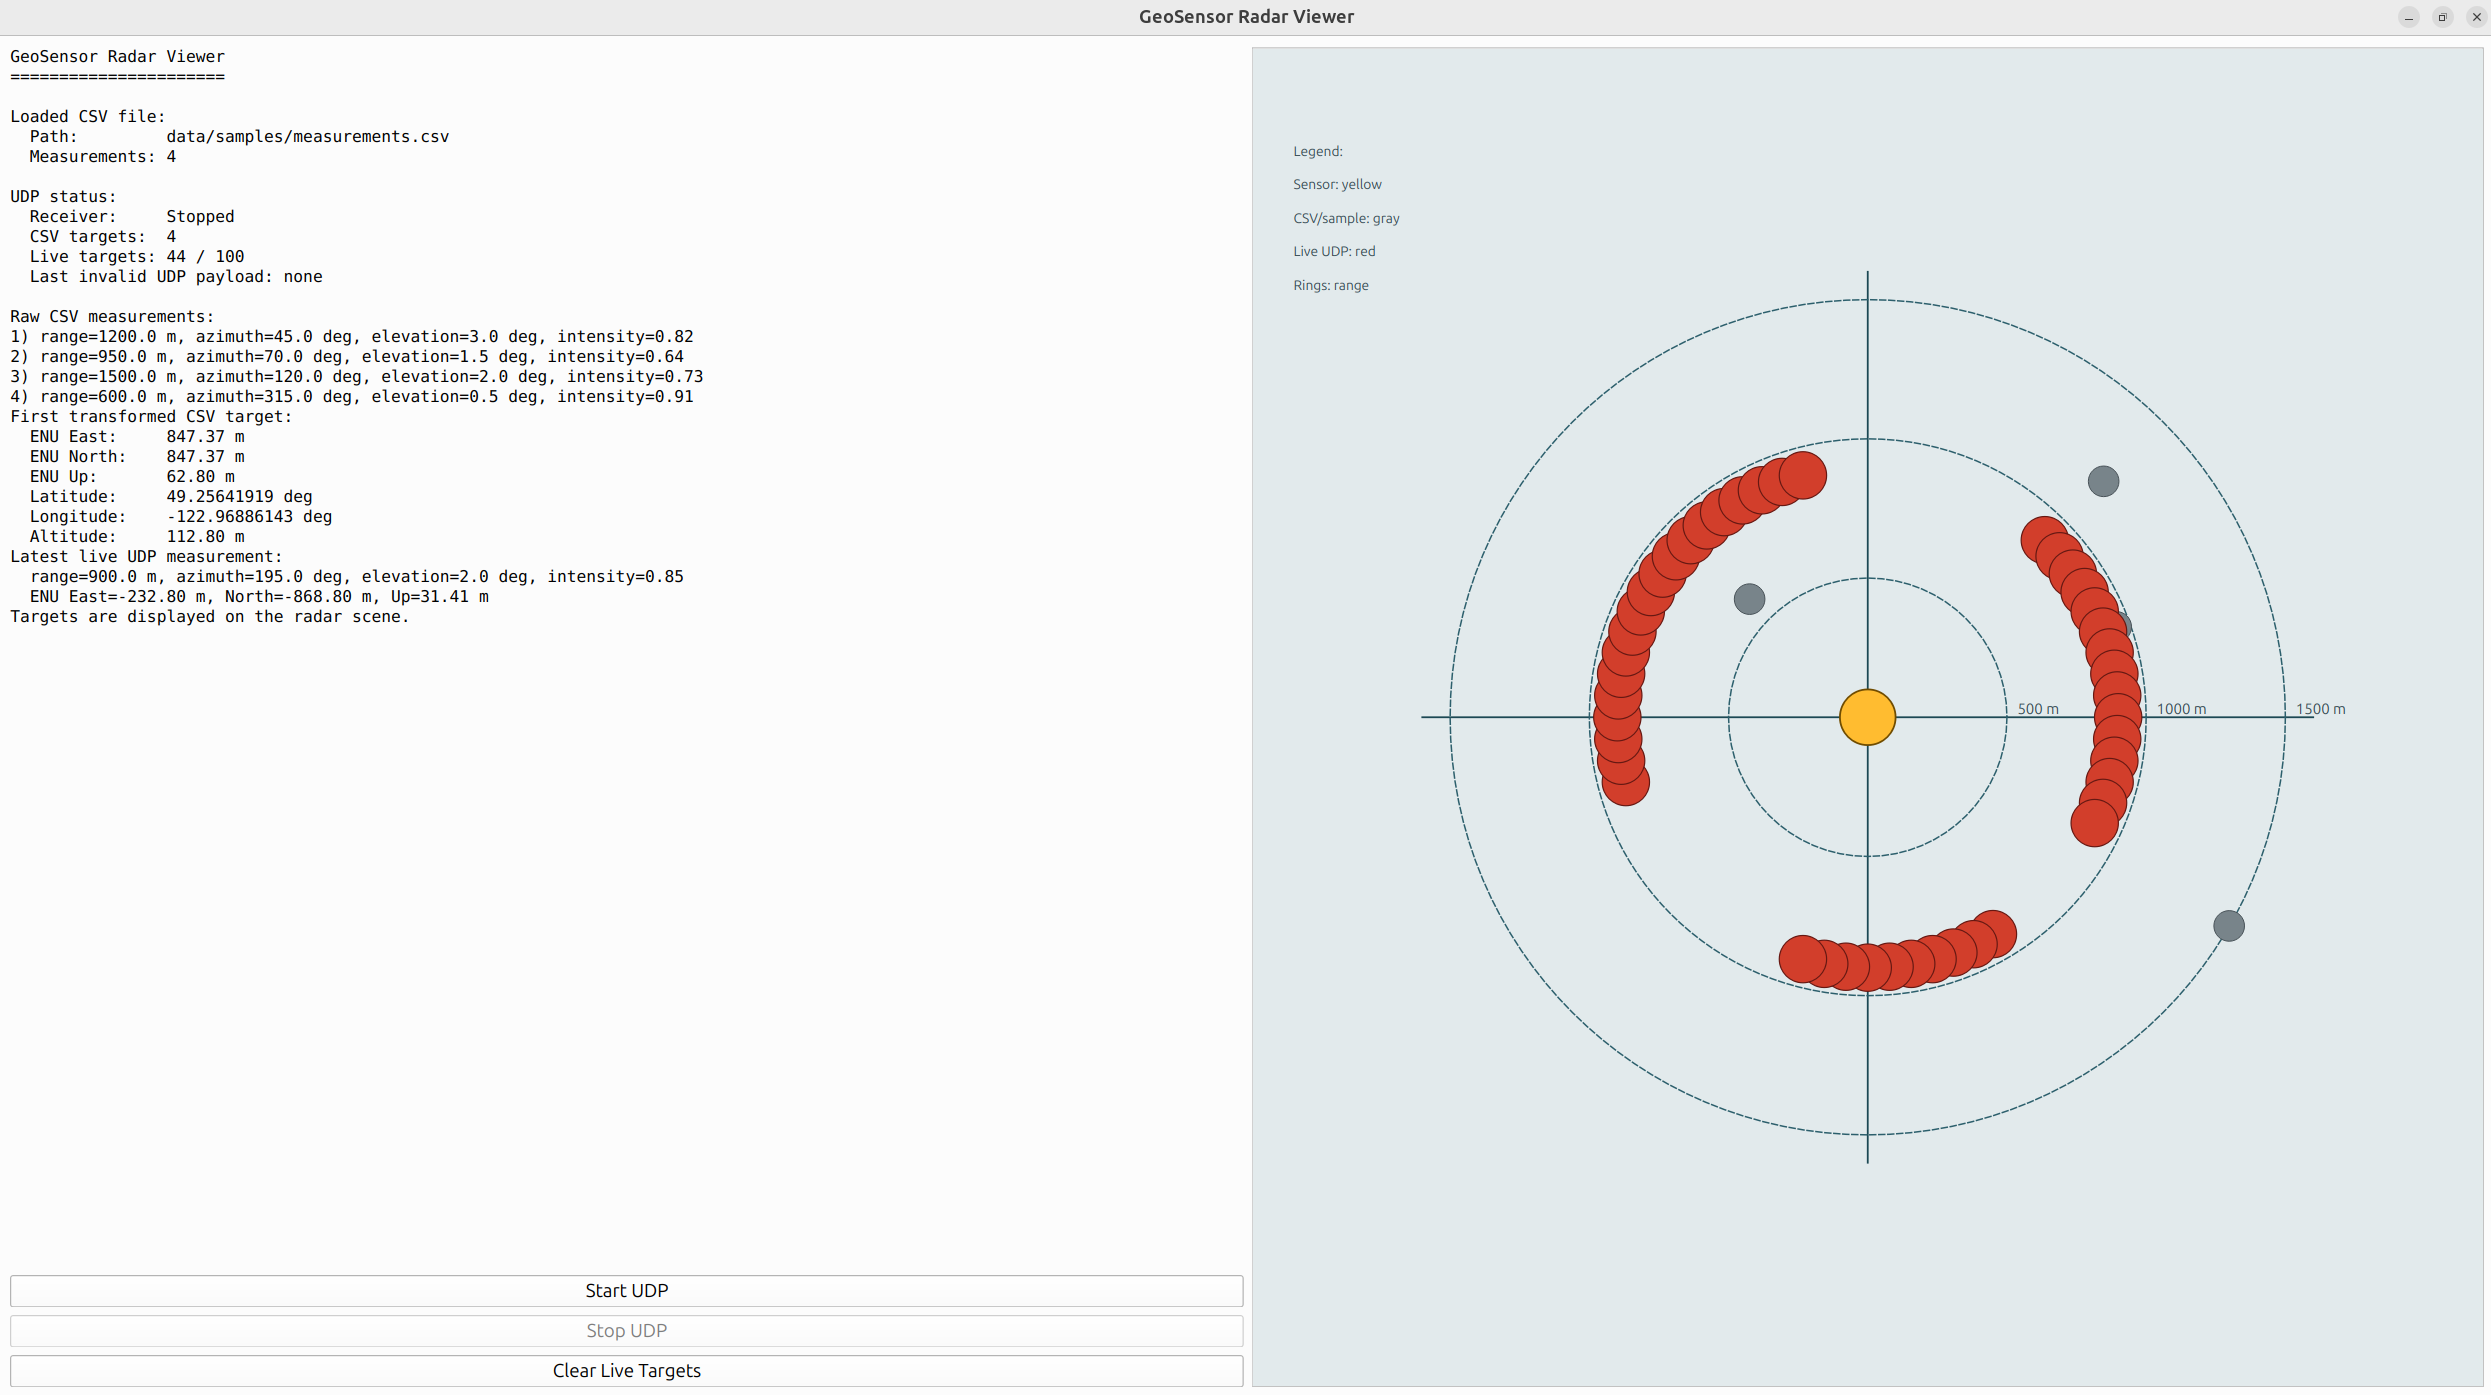
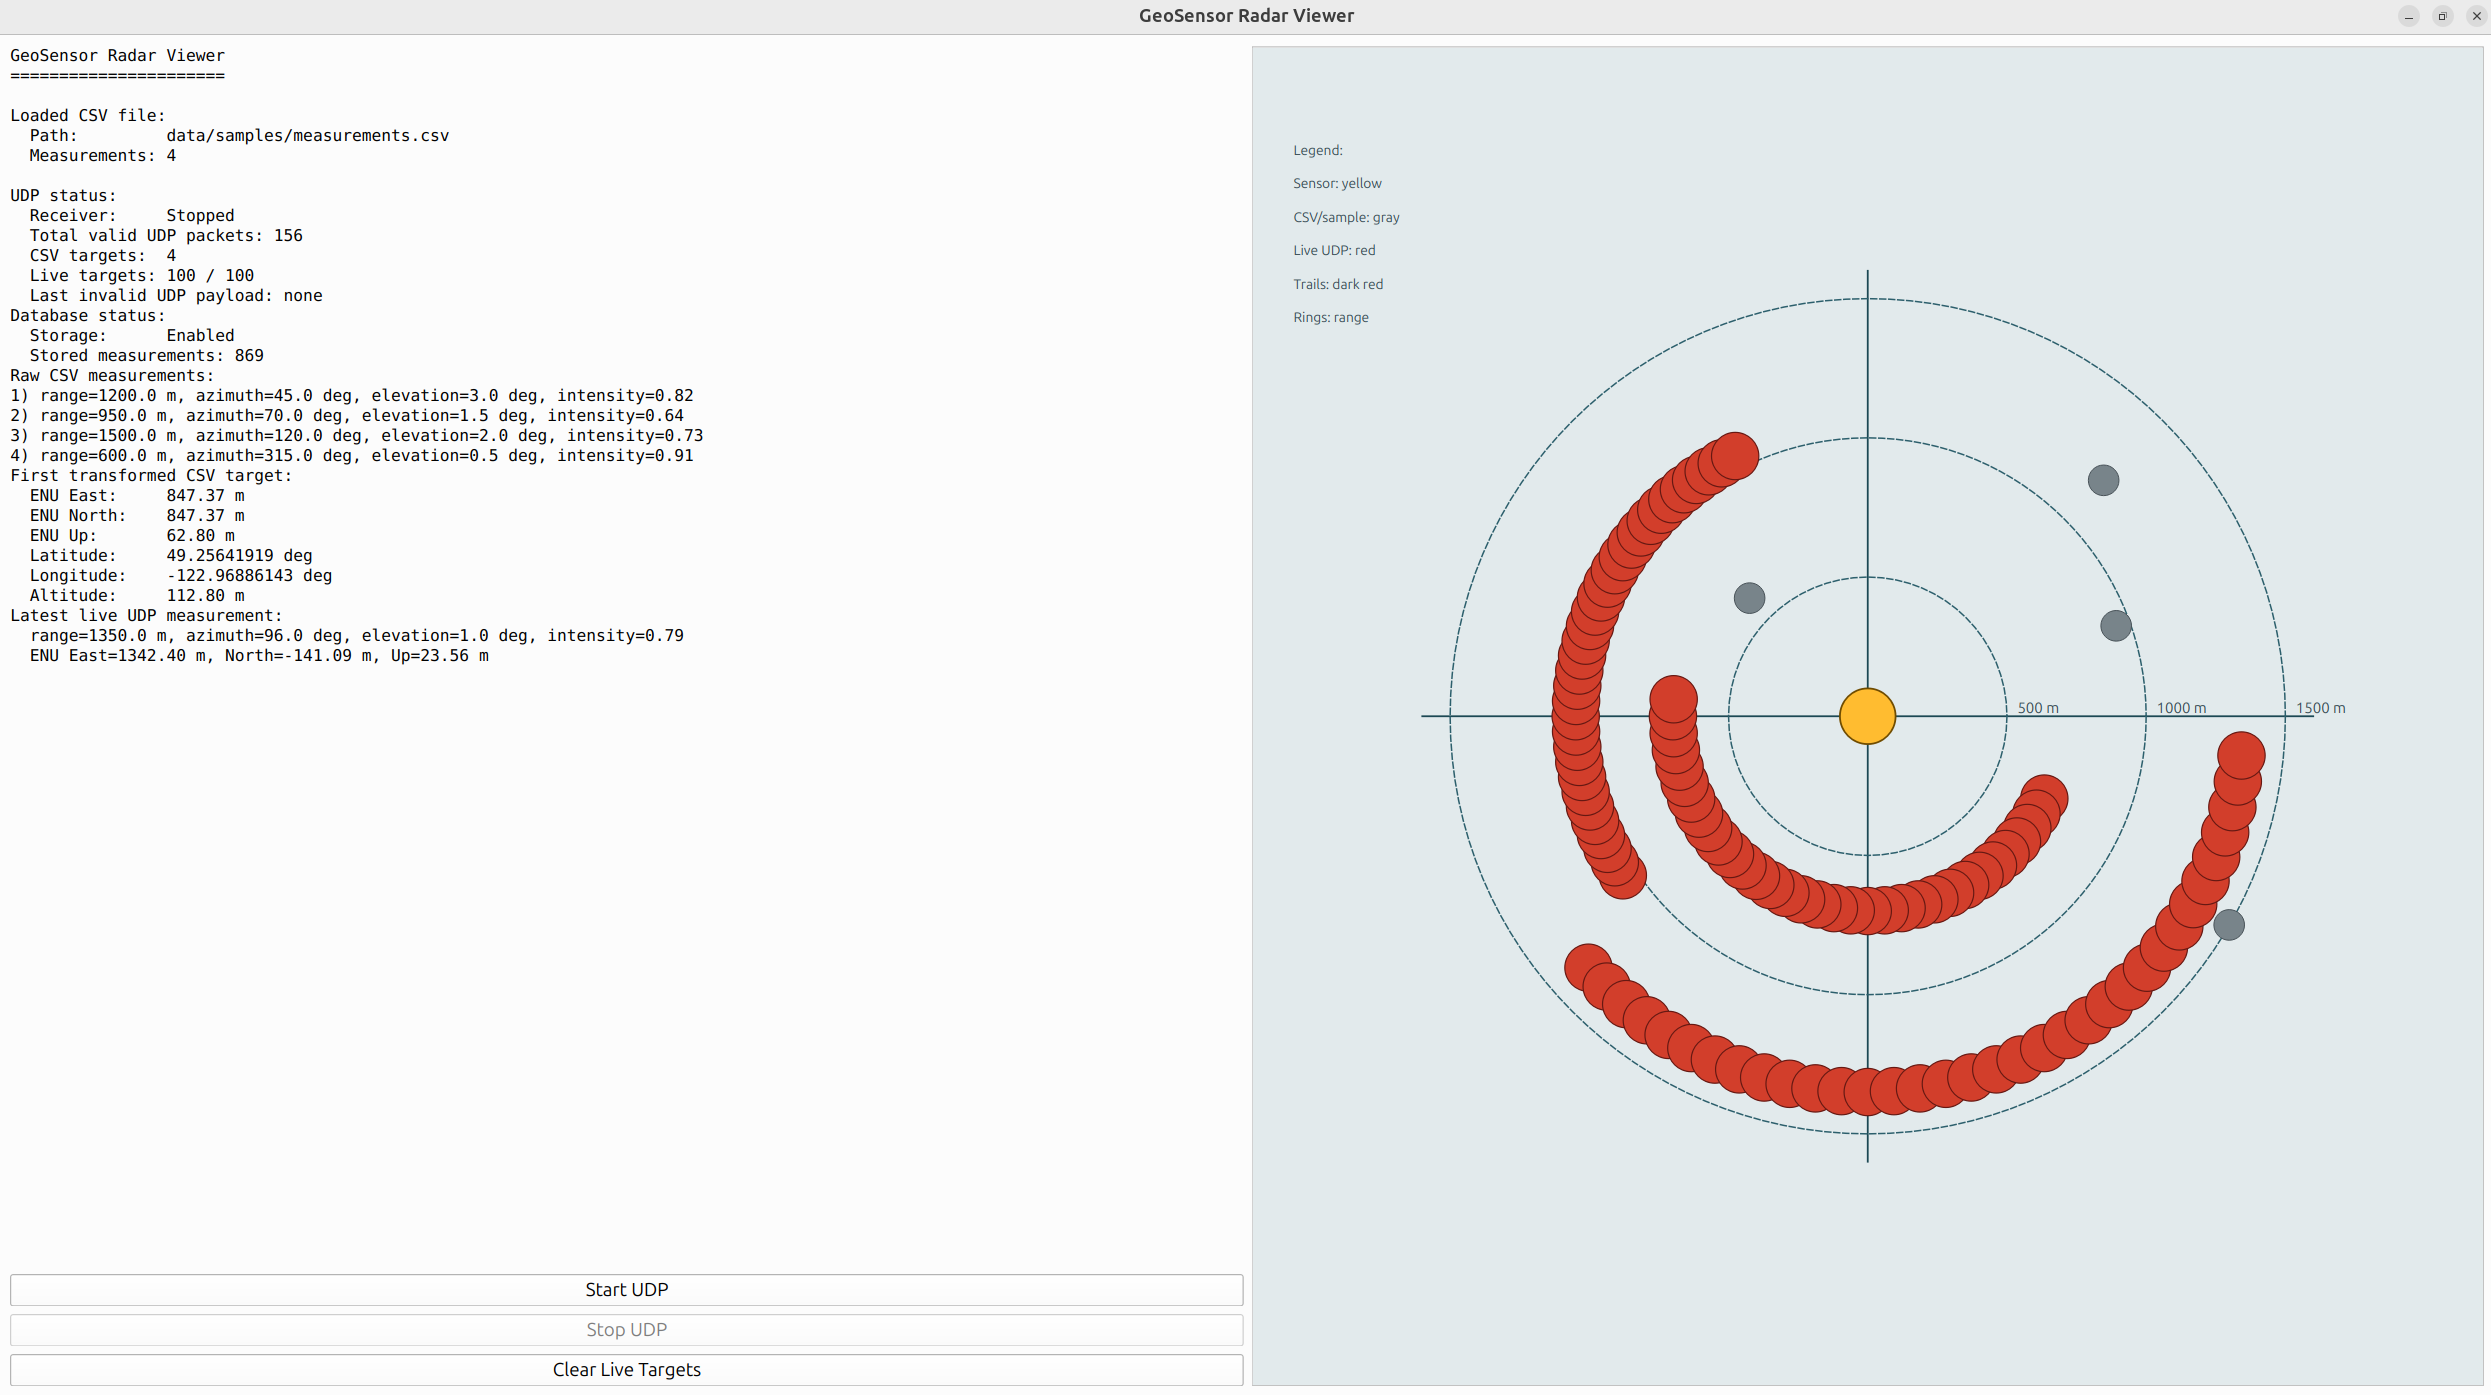
Update README target trails documentation

diff --git a/README.md b/README.md
@@ -14,6 +14,7 @@ GeoSensor Radar Viewer is a C++20 and Qt6 desktop application for visualizing ge
 - CSV loading for radar-style sensor measurements
 - Live UDP measurement receiver on `127.0.0.1:5005`
 - Python UDP simulator with static, moving, and multi-target modes
+- UDP payloads can include `target_id` for track-aware visualization
 - Live UDP controls for start, stop, and clear
 - Range / azimuth / elevation to local ENU coordinate transformation
 - Approximate ENU to WGS84 latitude / longitude conversion
@@ -22,6 +23,7 @@ GeoSensor Radar Viewer is a C++20 and Qt6 desktop application for visualizing ge
   - range rings
   - range labels
   - separate CSV/sample and live UDP target styles
+  - short per-target trails for UDP packets that include `target_id`
   - live UDP target buffer limited to the latest 100 positions
   - total valid UDP packet counter
   - legend
@@ -85,7 +87,7 @@ Run the multi-target UDP simulator in Terminal 2:
 ./scripts/simulator/udp_sensor_simulator.py --mode multi --interval 0.2 --azimuth-step 5
 ```
 
-In the radar view, CSV/sample targets remain visible and are styled separately from live UDP targets. `Start UDP` starts or resumes receiving live packets, `Stop UDP` pauses live receiving, and `Clear Live Targets` removes only the live UDP targets while keeping the CSV/sample targets on screen. Live targets are limited to the latest 100 positions, and the `Total valid UDP packets` status line continues increasing even after the live target buffer reaches 100. In moving mode, azimuth changes gradually so the red live target moves around the radar. Multi mode sends several moving detections per update cycle and now includes `target_id` values in the UDP payload, although the viewer does not use target IDs yet.
+In the radar view, CSV/sample targets remain visible and are styled separately from live UDP targets. `Start UDP` starts or resumes receiving live packets, `Stop UDP` pauses live receiving, and `Clear Live Targets` removes only the live UDP targets while keeping the CSV/sample targets on screen. Live targets are limited to the latest 100 positions, and the `Total valid UDP packets` status line continues increasing even after the live target buffer reaches 100. In moving mode, azimuth changes gradually so the red live target moves around the radar. When UDP packets include `target_id`, the viewer groups detections into short per-target trails. Legacy 4-field UDP packets still appear as live detections, but they do not carry track identity.
 
 ## SQLite Storage
 
@@ -112,7 +114,7 @@ Supported UDP payload formats:
 7,1200.0,45.0,3.0,0.82
 ```
 
-The 4-field format is kept for backward compatibility. The 5-field format adds `target_id` as the first field.
+The 4-field format is kept for backward compatibility. The 5-field format adds `target_id` as the first field and enables target-aware trail visualization in the viewer.
 
 Run it with the default destination `127.0.0.1:5005` and a `1.0` second interval:
 
@@ -138,7 +140,7 @@ Run a multi-target mode with several moving detections:
 ./scripts/simulator/udp_sensor_simulator.py --mode multi --azimuth-step 5.0
 ```
 
-In multi-target mode, the simulator sends one UDP packet per target for each update cycle. These packets include `target_id`, but the current viewer still renders detections without track identity.
+In multi-target mode, the simulator sends one UDP packet per target for each update cycle. These packets include `target_id`, so the viewer can render short per-target trails. Legacy 4-field packets still work and show up as live detections without track identity.
 
 Optional arguments:
 